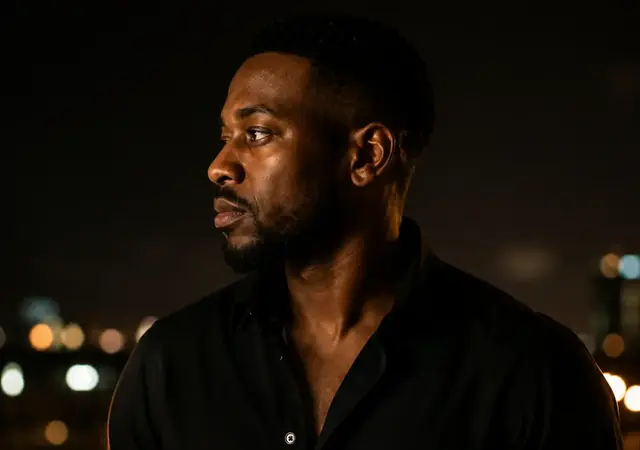
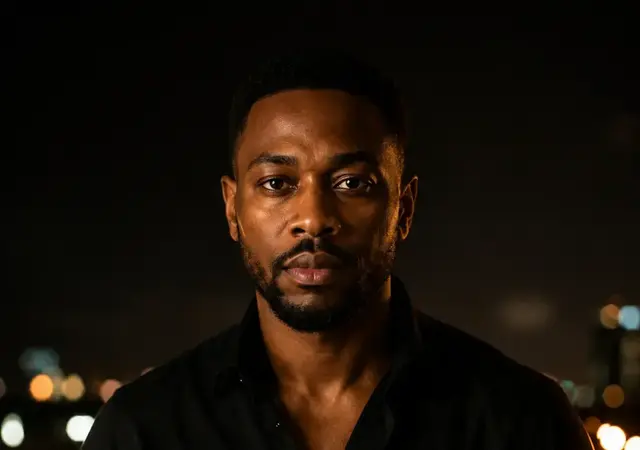
Fix Darian Gayle front-facing portrait

diff --git a/artists/darian-gayle/index.html b/artists/darian-gayle/index.html
@@ -10,12 +10,12 @@
   <meta property="og:title" content="Darian Gayle | Talk Di Tings | NextGen Sessions">
   <meta property="og:description" content="Jamaican-rooted reggae and soul shaped by restraint, reflection and emotionally direct songwriting.">
   <meta property="og:url" content="https://nextgensessions.com/artists/darian-gayle/">
-  <meta property="og:image" content="https://nextgensessions.com/assets/artists/darian-gayle-card.webp?v=20260806-darian5">
+  <meta property="og:image" content="https://nextgensessions.com/assets/artists/darian-gayle-card.webp?v=20260806-darian6">
   <meta property="og:image:alt" content="Darian Gayle artist portrait">
   <meta name="twitter:card" content="summary_large_image">
   <meta name="twitter:title" content="Darian Gayle | Talk Di Tings | NextGen Sessions">
   <meta name="twitter:description" content="Explore Darian Gayle’s reggae and soul profile and verified release.">
-  <meta name="twitter:image" content="https://nextgensessions.com/assets/artists/darian-gayle-card.webp?v=20260806-darian5">
+  <meta name="twitter:image" content="https://nextgensessions.com/assets/artists/darian-gayle-card.webp?v=20260806-darian6">
   <meta name="theme-color" content="#080808">
   <link rel="icon" type="image/svg+xml" href="/assets/nextgen-favicon.svg">
   <link rel="apple-touch-icon" href="/assets/apple-touch-icon.png">
@@ -23,7 +23,7 @@
   <link rel="stylesheet" href="/styles.css">
   <link rel="stylesheet" href="/artist-profile.css">
   <link rel="stylesheet" href="/featured-artist-experience.css">
-  <script type="application/ld+json">{"@context":"https://schema.org","@type":"MusicGroup","name":"Darian Gayle","genre":"Reggae / Soul","url":"https://nextgensessions.com/artists/darian-gayle/","image":"https://nextgensessions.com/assets/artists/darian-gayle-card.webp?v=20260806-darian5","subjectOf":{"@type":"MusicVideoObject","name":"Talk Di Tings","url":"https://www.youtube.com/watch?v=H7FJw00hBt4","embedUrl":"https://www.youtube-nocookie.com/embed/H7FJw00hBt4","datePublished":"2026-05-02"},"memberOf":{"@type":"Organization","name":"NextGen Sessions","url":"https://nextgensessions.com/"}}</script>
+  <script type="application/ld+json">{"@context":"https://schema.org","@type":"MusicGroup","name":"Darian Gayle","genre":"Reggae / Soul","url":"https://nextgensessions.com/artists/darian-gayle/","image":"https://nextgensessions.com/assets/artists/darian-gayle-card.webp?v=20260806-darian6","subjectOf":{"@type":"MusicVideoObject","name":"Talk Di Tings","url":"https://www.youtube.com/watch?v=H7FJw00hBt4","embedUrl":"https://www.youtube-nocookie.com/embed/H7FJw00hBt4","datePublished":"2026-05-02"},"memberOf":{"@type":"Organization","name":"NextGen Sessions","url":"https://nextgensessions.com/"}}</script>
 </head>
 <body>
   <a class="skip-link" href="#artistProfile">Skip to artist profile</a>
@@ -50,10 +50,10 @@
       <div class="footer-links"><a href="/">Home</a><a href="/artists/">Artists</a><a href="/releases/">Releases</a><a href="/mixes/">Mixes</a><a href="https://www.youtube.com/@NextGenSessions" target="_blank" rel="noopener">YouTube</a></div>
     </div>
   </footer>
-  <script src="/artist-images.js?v=20260806-darian5" defer></script>
+  <script src="/artist-images.js?v=20260806-darian6" defer></script>
     <script src="/artist-profiles.js" defer></script>
   <script src="/artist-profiles-expanded.js" defer></script>
-  <script src="/artists/darian-gayle/profile.js?v=20260806-darian5" defer></script>
+  <script src="/artists/darian-gayle/profile.js?v=20260806-darian6" defer></script>
   <script src="/artist-profile.js?v=20260806-darian6" defer></script>
   <script src="/featured-artist-experience.js?v=20260806-darian5" defer></script>
 </body>

diff --git a/index.html b/index.html
@@ -27,5 +27,5 @@
 <section class="section" id="submit" aria-labelledby="submit-title"><div class="submit-banner"><div><p class="eyebrow">Artist submissions</p><h2 id="submit-title">Think your music fits?</h2><p>Send one private listening link, your genre, location and a concise artist introduction. We review submissions that align with the sound and presentation of NextGen Sessions.</p></div><a class="button button-primary" href="/submit.html">Submission details</a></div></section>
 </main>
 <footer class="site-footer"><div class="footer-inner"><div>© 2026 NextGen Sessions. Original music and independent artists.</div><div class="footer-links"><a href="/artists/">Artists</a><a href="/releases/">Releases</a><a href="/mixes/">Mixes</a><a href="https://www.youtube.com/@NextGenSessions" target="_blank" rel="noopener">YouTube</a><a href="https://www.tiktok.com/@nextgensessions" target="_blank" rel="noopener">TikTok</a><a href="https://www.instagram.com/next.gensessions/" target="_blank" rel="noopener">Instagram</a><a href="mailto:billz_rida_37er@yahoo.co.uk">Contact</a></div></div></footer>
-<script src="/artists.js" defer></script><script src="/artist-images.js?v=20260805-rudii6" defer></script><script src="/artist-profiles.js" defer></script><script src="/artist-profiles-expanded.js?v=20260805-marlo2" defer></script><script src="/site.js?v=20260805-latest2" defer></script>
+<script src="/artists.js" defer></script><script src="/artist-images.js?v=20260806-darian6" defer></script><script src="/artist-profiles.js" defer></script><script src="/artist-profiles-expanded.js?v=20260805-marlo2" defer></script><script src="/site.js?v=20260805-latest2" defer></script>
 </body></html>

diff --git a/artists/index.html b/artists/index.html
@@ -24,10 +24,10 @@
 </main>
 <footer class="site-footer"><div class="footer-inner"><div>© 2026 NextGen Sessions. Original music and independent artists.</div><div class="footer-links"><a href="/">Home</a><a href="/submit.html">Submit music</a><a href="https://www.youtube.com/@NextGenSessions" target="_blank" rel="noopener">YouTube</a><a href="https://www.instagram.com/next.gensessions/" target="_blank" rel="noopener">Instagram</a></div></div></footer>
 <script src="/artists.js" defer></script>
-<script src="/artist-images.js?v=20260806-darian5" defer></script>
+<script src="/artist-images.js?v=20260806-darian6" defer></script>
 <script src="/artist-profiles.js" defer></script>
 <script src="/artist-profiles-expanded.js?v=20260805-marlo2" defer></script>
-<script src="/artists/darian-gayle/profile.js?v=20260806-darian5" defer></script>
+<script src="/artists/darian-gayle/profile.js?v=20260806-darian6" defer></script>
 <script src="/andre-kadeem-portrait.js?v=20260806-andre3" defer></script>
 <script src="/site.js?v=20260806-darian4" defer></script>
 </body></html>

diff --git a/artist-images.js b/artist-images.js
@@ -95,10 +95,10 @@ window.NGS_ARTIST_IMAGES = {
     position: "50% 38%"
   },
   "darian-gayle": {
-    src: "/assets/artists/darian-gayle-card.webp?v=20260806-darian5",
-    srcset: "/assets/artists/darian-gayle-card-640.webp?v=20260806-darian5 640w, /assets/artists/darian-gayle-card.webp?v=20260806-darian5 1024w",
-    portrait: "/assets/artists/darian-gayle-portrait.webp?v=20260806-darian5",
-    fallback: "/assets/artists/darian-gayle-card-640.webp?v=20260806-darian5",
+    src: "/assets/artists/darian-gayle-card.webp?v=20260806-darian6",
+    srcset: "/assets/artists/darian-gayle-card-640.webp?v=20260806-darian6 640w, /assets/artists/darian-gayle-card.webp?v=20260806-darian6 1024w",
+    portrait: "/assets/artists/darian-gayle-portrait.webp?v=20260806-darian6",
+    fallback: "/assets/artists/darian-gayle-card-640.webp?v=20260806-darian6",
     position: "50% 32%"
   }
 };

diff --git a/artists/darian-gayle/profile.js b/artists/darian-gayle/profile.js
@@ -11,7 +11,7 @@ window.NGS_ARTIST_PROFILES = Object.assign(window.NGS_ARTIST_PROFILES || {}, {
       "Talk Di Tings focuses on outside conversation, rumour and the discipline required to stay centred when other people are speaking. The presentation remains understated and cinematic, keeping the writing and mood at the front."
     ],
     "imageKey": "darian-gayle",
-    "image": "/assets/artists/darian-gayle-portrait.webp?v=20260806-darian5",
+    "image": "/assets/artists/darian-gayle-portrait.webp?v=20260806-darian6",
     "imagePosition": "50% 30%",
     "featuredVideo": {
       "id": "H7FJw00hBt4",
